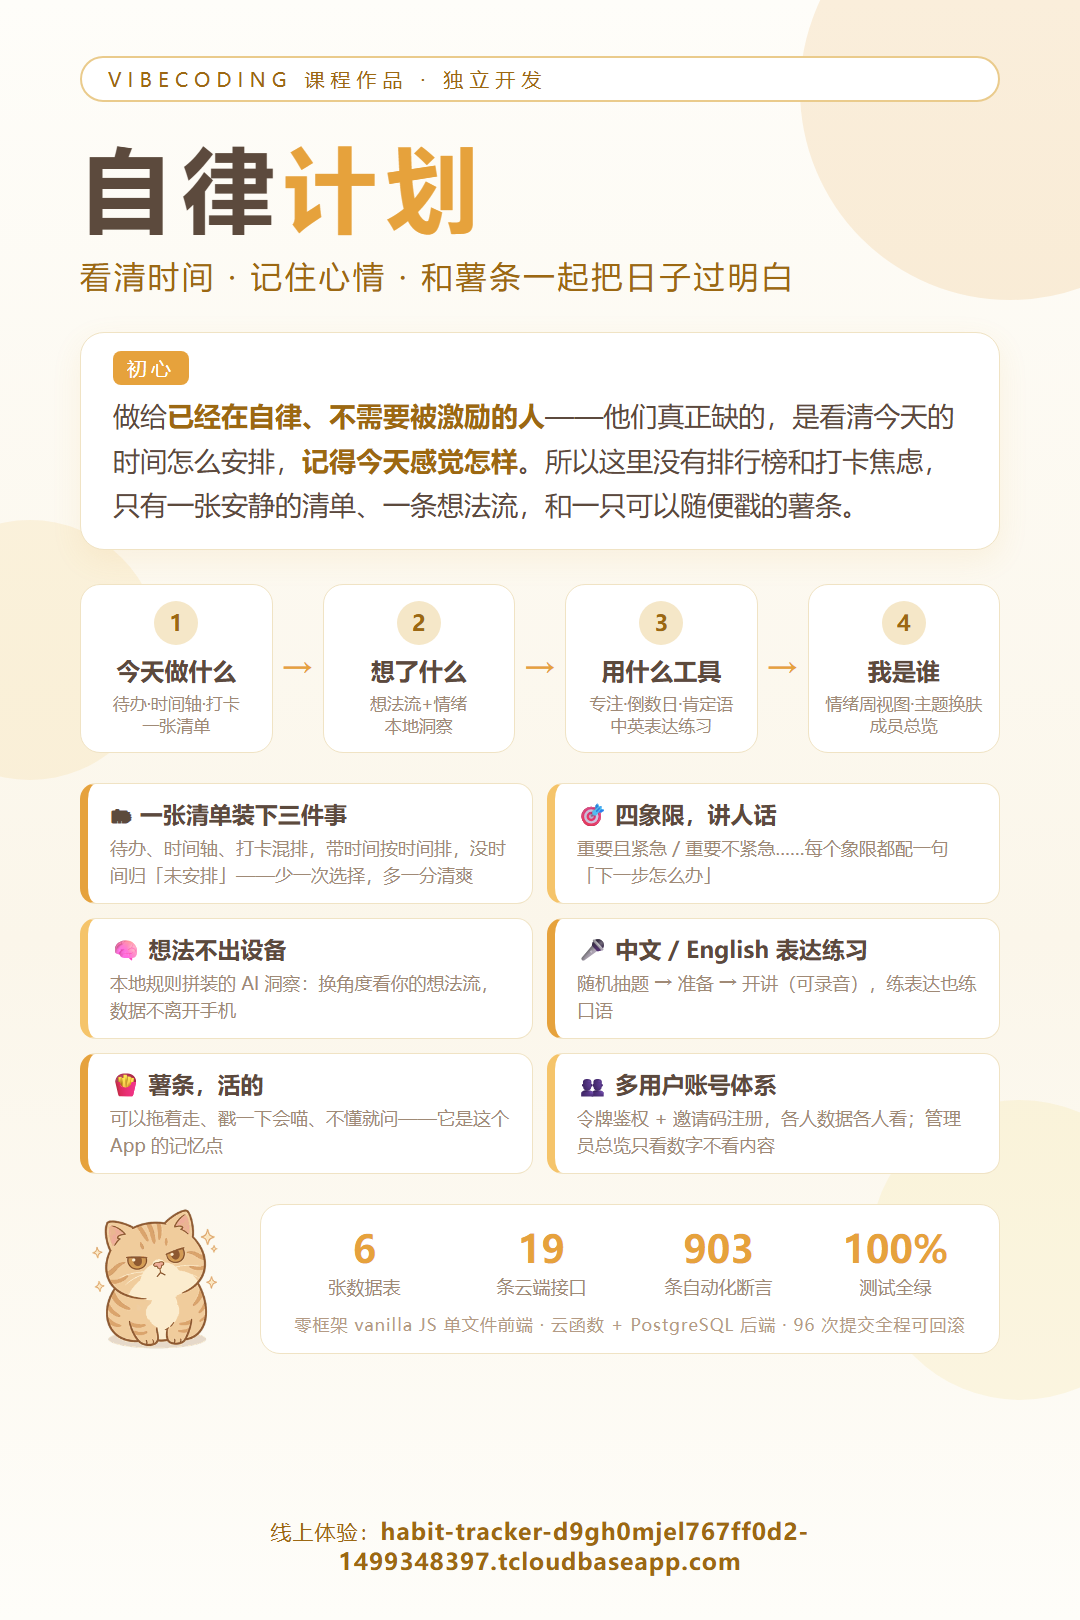
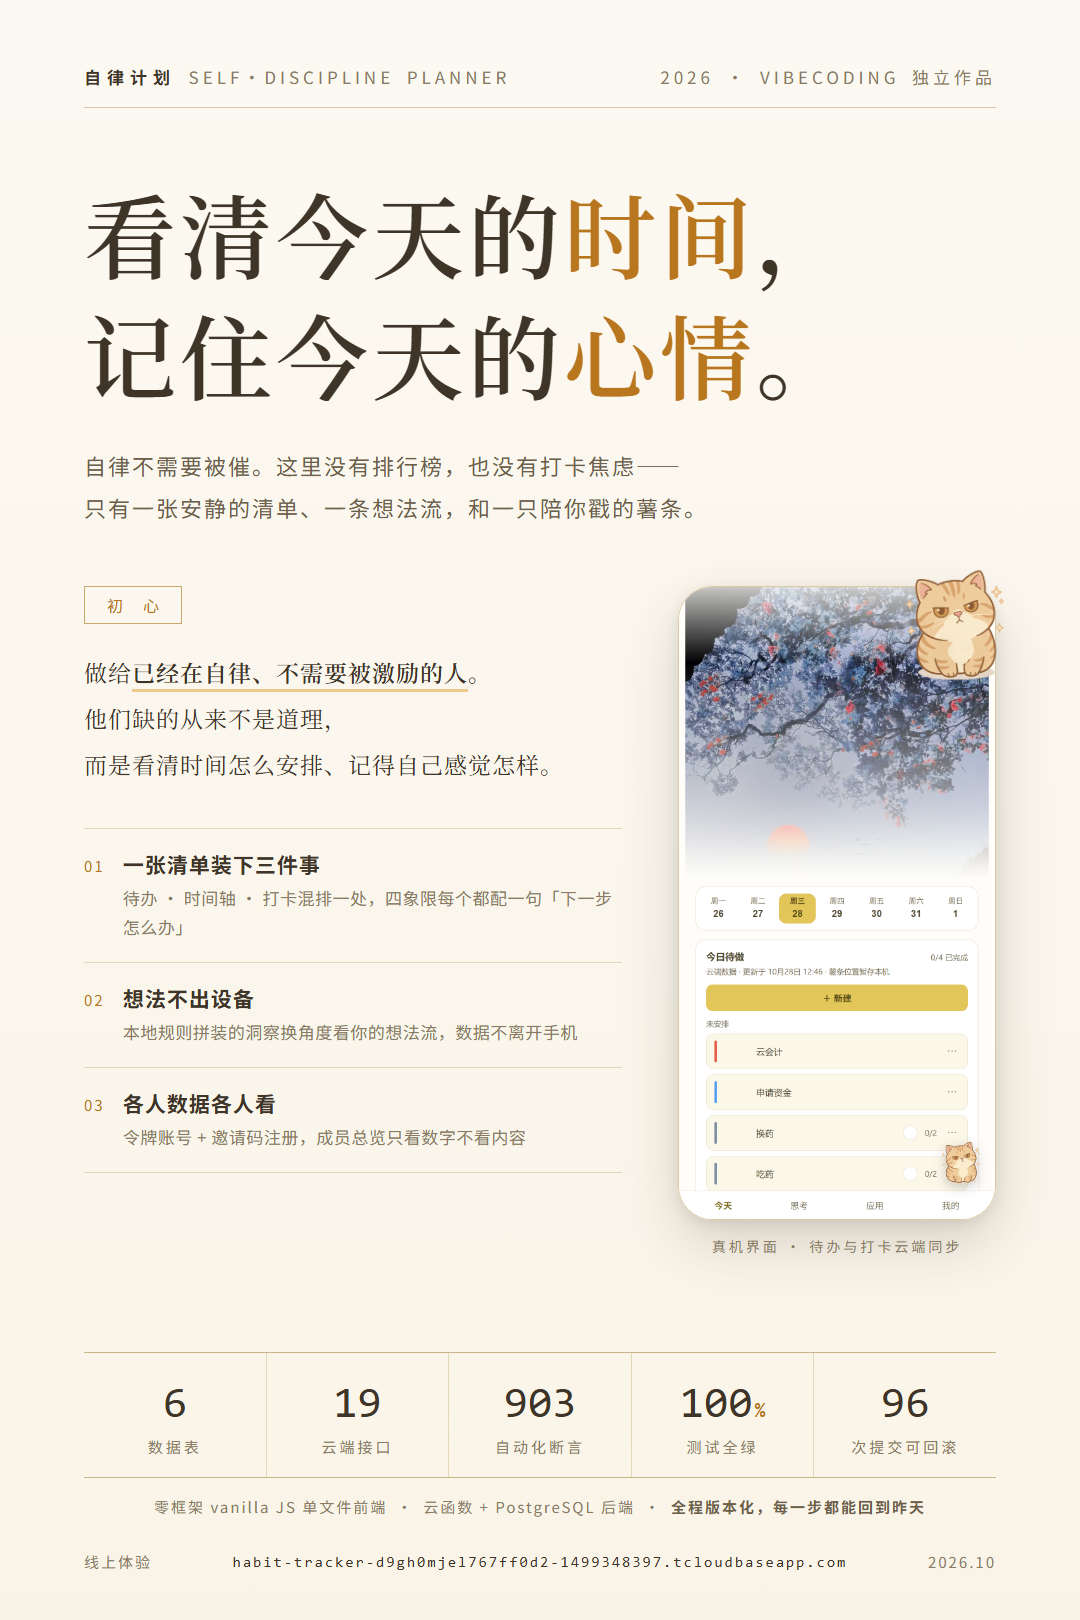
Day 31｜五轮：海报重设计——从功能清单改成编辑风版式
改了什么：用户反馈第一版「不高级、像功能列表」——整体换设计语言：宋体（Noto Serif SC）大字报头「看清今天的时间，记住今天的心情」做主标语，琥珀色只点两个字；真机界面截图（poster-shot.png，2 倍像素）进圆角手机框做主视觉；薯条从手机后探头；正文改 Noto Sans SC，数字与网址用 Source Code Pro 等宽
加了什么：三栏数字条（6 表 / 19 接口 / 903 断言 / 100% / 96 提交）配细线分隔；初心段落 + 01/02/03 三条差异化要点；尺寸仍为 1080×1620（2:3）；无产品代码改动，纯 docs 资源

diff --git a/habit-tracker/docs/poster.html b/habit-tracker/docs/poster.html
@@ -4,111 +4,116 @@
 <meta charset="utf-8" />
 <title>自律计划 · 参赛海报</title>
 <style>
-  /* ===== 奶油暖阳（与产品主题同源）：底 #FEFDF9 / 卡 #FFF / 主色 #E6A23C / 正文 #5C4A3D ===== */
+  /* ===== 编辑风海报：宋体大字 + 细线 + 大留白。纸 #FBF7EF / 墨 #3E3428 / 琥珀 #B8761E ===== */
   *{ margin:0; padding:0; box-sizing:border-box; }
-  html,body{ width:1080px; background:#FEFDF9; color:#5C4A3D;
-             font-family:"PingFang SC","Microsoft YaHei",sans-serif; }
-  .poster{ width:1080px; min-height:1620px; display:flex; flex-direction:column; padding:56px 80px 44px; position:relative; overflow:hidden;
-           background:linear-gradient(180deg,#FEFDF9 0%,#FBF6EA 58%,#FEFDF9 100%); }
-  /* 装饰：暖色圆斑，避开文字区 */
-  .blob{ position:absolute; border-radius:50%; opacity:.16; }
-  .b1{ width:420px; height:420px; right:-140px; top:-120px; background:#E6A23C; }
-  .b2{ width:260px; height:260px; left:-100px; top:520px; background:#F5C46A; }
-  .b3{ width:300px; height:300px; right:-90px; bottom:220px; background:#F0D878; }
+  html,body{ width:1080px; background:#FBF7EF; color:#3E3428;
+             font-family:"Noto Sans SC","Microsoft YaHei",sans-serif;
+             -webkit-font-smoothing:antialiased; }
+  .serif{ font-family:"Noto Serif SC","Source Han Serif SC","STZHONGS","STSONG",serif; }
+  .mono{ font-family:"Source Code Pro",Consolas,monospace; }
+  .poster{ width:1080px; min-height:1620px; display:flex; flex-direction:column;
+           padding:64px 84px 48px; position:relative;
+           background:linear-gradient(180deg,#FCF9F2 0%,#FAF4E8 100%); }
 
-  .kicker{ display:inline-block; font-size:20px; letter-spacing:6px; color:#9C6812;
-           border:2px solid #EACB8C; border-radius:999px; padding:8px 26px; background:#FFF;
-           position:relative; }
-  h1{ font-size:92px; font-weight:800; letter-spacing:10px; margin:24px 0 8px; position:relative; }
-  h1 .em{ color:#E6A23C; }
-  .slogan{ font-size:31px; color:#9C6812; letter-spacing:3px; position:relative; }
+  /* 顶部小字行 */
+  .meta{ display:flex; justify-content:space-between; align-items:baseline;
+         font-size:17px; letter-spacing:4px; color:#8A7A63; }
+  .meta b{ color:#3E3428; letter-spacing:6px; font-weight:600; }
+  .rule{ border:none; border-top:1px solid #D9C9A8; margin:18px 0 0; }
 
-  /* 初心 */
-  .creed{ margin:36px 0 34px; background:#FFF; border:1px solid #F0E3C4; border-radius:24px;
-          padding:22px 32px; position:relative; box-shadow:0 10px 30px rgba(230,162,60,.10); }
-  .creed .tag{ font-size:20px; color:#FFF; background:#E6A23C; border-radius:8px;
-               padding:4px 14px; letter-spacing:4px; }
-  .creed p{ font-size:27px; line-height:1.65; margin-top:12px; }
-  .creed p b{ color:#9C6812; }
+  /* 大字报头 */
+  .hero{ margin-top:64px; }
+  .hero h1{ font-size:92px; line-height:1.32; font-weight:600; letter-spacing:4px; }
+  .hero h1 .am{ color:#B8761E; }
+  .hero p{ margin-top:30px; font-size:22px; line-height:1.9; color:#6E5F4B;
+           letter-spacing:2px; max-width:760px; }
 
-  /* 四页主线 */
-  .flow{ display:flex; align-items:stretch; gap:0; margin-bottom:30px; position:relative; }
-  .step{ flex:1; background:#FFF; border:1px solid #F0E3C4; border-radius:20px;
-         padding:16px 12px 16px; text-align:center; position:relative; z-index:1; }
-  .step .no{ width:44px; height:44px; line-height:44px; border-radius:50%; margin:0 auto 10px;
-             background:#F5E7C8; color:#9C6812; font-weight:800; font-size:22px; }
-  .step .t{ font-size:24px; font-weight:700; }
-  .step .s{ font-size:17px; color:#A08A76; margin-top:6px; }
-  .arr{ align-self:center; font-size:30px; color:#E6A23C; padding:0 10px; font-weight:800; }
+  /* 中部：左文右图 */
+  .main{ display:flex; gap:56px; margin-top:58px; align-items:flex-start; }
+  .left{ flex:1; min-width:0; }
+  .tag{ display:inline-block; font-size:16px; letter-spacing:6px; color:#B8761E;
+        border:1px solid #C9A96E; padding:6px 16px 6px 22px; }
+  .left .creed{ margin-top:26px; font-size:23px; line-height:2.0; letter-spacing:1px; }
+  .left .creed b{ font-weight:600; border-bottom:3px solid #EACB8C; }
+  .points{ margin-top:40px; }
+  .pt{ display:flex; gap:18px; padding:20px 0; border-top:1px solid #E4D7BC; }
+  .pt:last-child{ border-bottom:1px solid #E4D7BC; }
+  .pt .no{ font-size:15px; color:#B8761E; letter-spacing:2px; padding-top:6px; }
+  .pt .t{ font-size:21px; font-weight:600; letter-spacing:1px; }
+  .pt .s{ font-size:17px; color:#8A7A63; margin-top:5px; line-height:1.7; letter-spacing:.5px; }
 
-  /* 功能亮点 */
-  .grid{ display:grid; grid-template-columns:1fr 1fr; gap:14px; margin-bottom:30px; position:relative; }
-  .feat{ background:#FFF; border:1px solid #F0E3C4; border-left:8px solid #E6A23C;
-         border-radius:16px; padding:14px 22px; }
-  .feat .t{ font-size:23px; font-weight:700; }
-  .feat .s{ font-size:18px; color:#A08A76; margin-top:6px; line-height:1.5; }
-  .feat.alt{ border-left-color:#F5C46A; }
+  .shot{ flex-shrink:0; width:318px; text-align:center; }
+  .shot .phone{ width:318px; border-radius:34px; border:1px solid #DECBA4;
+                box-shadow:0 24px 60px rgba(62,52,40,.18), 0 4px 14px rgba(62,52,40,.10);
+                display:block; }
+  .shot .cap{ margin-top:16px; font-size:14px; letter-spacing:3px; color:#8A7A63; }
 
-  /* 底部：薯条 + 数据 */
-  .bottom{ display:flex; align-items:center; gap:30px; position:relative; }
-  .bottom img{ width:150px; height:150px; object-fit:contain; flex-shrink:0; }
-  .nums{ flex:1; background:#FFF; border:1px solid #F0E3C4; border-radius:20px; padding:18px 28px; }
-  .nums .row{ display:flex; gap:26px; justify-content:space-between; }
-  .num{ text-align:center; flex:1; }
-  .num .v{ font-size:38px; font-weight:800; color:#E6A23C; }
-  .num .k{ font-size:18px; color:#A08A76; margin-top:2px; }
-  .nums .cap{ font-size:17px; color:#B49B85; margin-top:14px; text-align:center; letter-spacing:1px; }
-  .url{ margin-top:auto; padding-top:20px; text-align:center; font-size:21px; color:#9C6812; letter-spacing:1px;
-        position:relative; }
-  .url b{ font-size:23px; }
+  /* 数据行 */
+  .stats{ margin-top:auto; padding-top:44px; }
+  .stats .row{ display:flex; border-top:1px solid #C9B58C; border-bottom:1px solid #C9B58C; }
+  .st{ flex:1; text-align:center; padding:24px 0 20px; border-right:1px solid #E4D7BC; }
+  .st:last-child{ border-right:none; }
+  .st .v{ font-size:44px; color:#3E3428; }
+  .st .v i{ font-style:normal; font-size:20px; color:#B8761E; margin-left:2px; }
+  .st .k{ font-size:15px; letter-spacing:3px; color:#8A7A63; margin-top:8px; }
+  .stats .cap{ text-align:center; font-size:15px; letter-spacing:2px; color:#8A7A63; margin-top:18px; }
+  .stats .cap b{ color:#6E5F4B; font-weight:600; }
+
+  /* 底部 */
+  .foot{ margin-top:34px; display:flex; justify-content:space-between; align-items:center;
+         font-size:15px; letter-spacing:2px; color:#8A7A63; }
+  .foot .u{ color:#3E3428; }
+  .mascot{ position:absolute; right:66px; top:566px; width:118px; opacity:.98; }
 </style>
 </head>
 <body>
 <div class="poster">
-  <div class="blob b1"></div><div class="blob b2"></div><div class="blob b3"></div>
+  <div class="meta">
+    <span><b>自律计划</b>&ensp;SELF·DISCIPLINE&ensp;PLANNER</span>
+    <span>2026&ensp;·&ensp;VIBECODING&ensp;独立作品</span>
+  </div>
+  <hr class="rule" />
 
-  <span class="kicker">VIBECODING 课程作品 · 独立开发</span>
-  <h1>自律<span class="em">计划</span></h1>
-  <div class="slogan">看清时间 · 记住心情 · 和薯条一起把日子过明白</div>
-
-  <div class="creed">
-    <span class="tag">初心</span>
-    <p>做给<b>已经在自律、不需要被激励的人</b>——他们真正缺的，是看清今天的时间怎么安排，<b>记得今天感觉怎样</b>。所以这里没有排行榜和打卡焦虑，只有一张安静的清单、一条想法流，和一只可以随便戳的薯条。</p>
+  <div class="hero">
+    <h1 class="serif">看清今天的<span class="am">时间</span>，<br />记住今天的<span class="am">心情</span>。</h1>
+    <p>自律不需要被催。这里没有排行榜，也没有打卡焦虑——<br />
+       只有一张安静的清单、一条想法流，和一只陪你戳的薯条。</p>
   </div>
 
-  <div class="flow">
-    <div class="step"><div class="no">1</div><div class="t">今天做什么</div><div class="s">待办·时间轴·打卡<br>一张清单</div></div>
-    <div class="arr">→</div>
-    <div class="step"><div class="no">2</div><div class="t">想了什么</div><div class="s">想法流+情绪<br>本地洞察</div></div>
-    <div class="arr">→</div>
-    <div class="step"><div class="no">3</div><div class="t">用什么工具</div><div class="s">专注·倒数日·肯定语<br>中英表达练习</div></div>
-    <div class="arr">→</div>
-    <div class="step"><div class="no">4</div><div class="t">我是谁</div><div class="s">情绪周视图·主题换肤<br>成员总览</div></div>
-  </div>
-
-  <div class="grid">
-    <div class="feat"><div class="t">🗂 一张清单装下三件事</div><div class="s">待办、时间轴、打卡混排，带时间按时间排，没时间归「未安排」——少一次选择，多一分清爽</div></div>
-    <div class="feat alt"><div class="t">🎯 四象限，讲人话</div><div class="s">重要且紧急 / 重要不紧急……每个象限都配一句「下一步怎么办」</div></div>
-    <div class="feat alt"><div class="t">🧠 想法不出设备</div><div class="s">本地规则拼装的 AI 洞察：换角度看你的想法流，数据不离开手机</div></div>
-    <div class="feat"><div class="t">🎤 中文 / English 表达练习</div><div class="s">随机抽题 → 准备 → 开讲（可录音），练表达也练口语</div></div>
-    <div class="feat"><div class="t">🍟 薯条，活的</div><div class="s">可以拖着走、戳一下会喵、不懂就问——它是这个 App 的记忆点</div></div>
-    <div class="feat alt"><div class="t">👥 多用户账号体系</div><div class="s">令牌鉴权 + 邀请码注册，各人数据各人看；管理员总览只看数字不看内容</div></div>
-  </div>
-
-  <div class="bottom">
-    <img src="../frontend/assets/pet-fries.png" alt="薯条" />
-    <div class="nums">
-      <div class="row">
-        <div class="num"><div class="v">6</div><div class="k">张数据表</div></div>
-        <div class="num"><div class="v">19</div><div class="k">条云端接口</div></div>
-        <div class="num"><div class="v">903</div><div class="k">条自动化断言</div></div>
-        <div class="num"><div class="v">100%</div><div class="k">测试全绿</div></div>
+  <div class="main">
+    <div class="left">
+      <span class="tag">初&ensp;心</span>
+      <p class="creed serif">做给<b>已经在自律、不需要被激励的人</b>。<br />他们缺的从来不是道理，<br />而是看清时间怎么安排、记得自己感觉怎样。</p>
+      <div class="points">
+        <div class="pt"><span class="no">01</span><div><div class="t">一张清单装下三件事</div><div class="s">待办 · 时间轴 · 打卡混排一处，四象限每个都配一句「下一步怎么办」</div></div></div>
+        <div class="pt"><span class="no">02</span><div><div class="t">想法不出设备</div><div class="s">本地规则拼装的洞察换角度看你的想法流，数据不离开手机</div></div></div>
+        <div class="pt"><span class="no">03</span><div><div class="t">各人数据各人看</div><div class="s">令牌账号 + 邀请码注册，成员总览只看数字不看内容</div></div></div>
       </div>
-      <div class="cap">零框架 vanilla JS 单文件前端 · 云函数 + PostgreSQL 后端 · 96 次提交全程可回滚</div>
+    </div>
+    <div class="shot">
+      <img class="phone" src="poster-shot.png" alt="真实界面" />
+      <div class="cap">真机界面 · 待办与打卡云端同步</div>
     </div>
   </div>
 
-  <div class="url">线上体验：<b>habit-tracker-d9gh0mjel767ff0d2-1499348397.tcloudbaseapp.com</b></div>
+  <img class="mascot" src="../frontend/assets/pet-fries.png" alt="薯条" />
+
+  <div class="stats">
+    <div class="row">
+      <div class="st"><div class="v mono">6</div><div class="k">数据表</div></div>
+      <div class="st"><div class="v mono">19</div><div class="k">云端接口</div></div>
+      <div class="st"><div class="v mono">903</div><div class="k">自动化断言</div></div>
+      <div class="st"><div class="v mono">100<i>%</i></div><div class="k">测试全绿</div></div>
+      <div class="st"><div class="v mono">96</div><div class="k">次提交可回滚</div></div>
+    </div>
+    <div class="cap">零框架 vanilla JS 单文件前端&ensp;·&ensp;云函数 + PostgreSQL 后端&ensp;·&ensp;<b>全程版本化，每一步都能回到昨天</b></div>
+  </div>
+
+  <div class="foot">
+    <span>线上体验</span>
+    <span class="u mono">habit-tracker-d9gh0mjel767ff0d2-1499348397.tcloudbaseapp.com</span>
+    <span>2026.10</span>
+  </div>
 </div>
 </body>
 </html>
